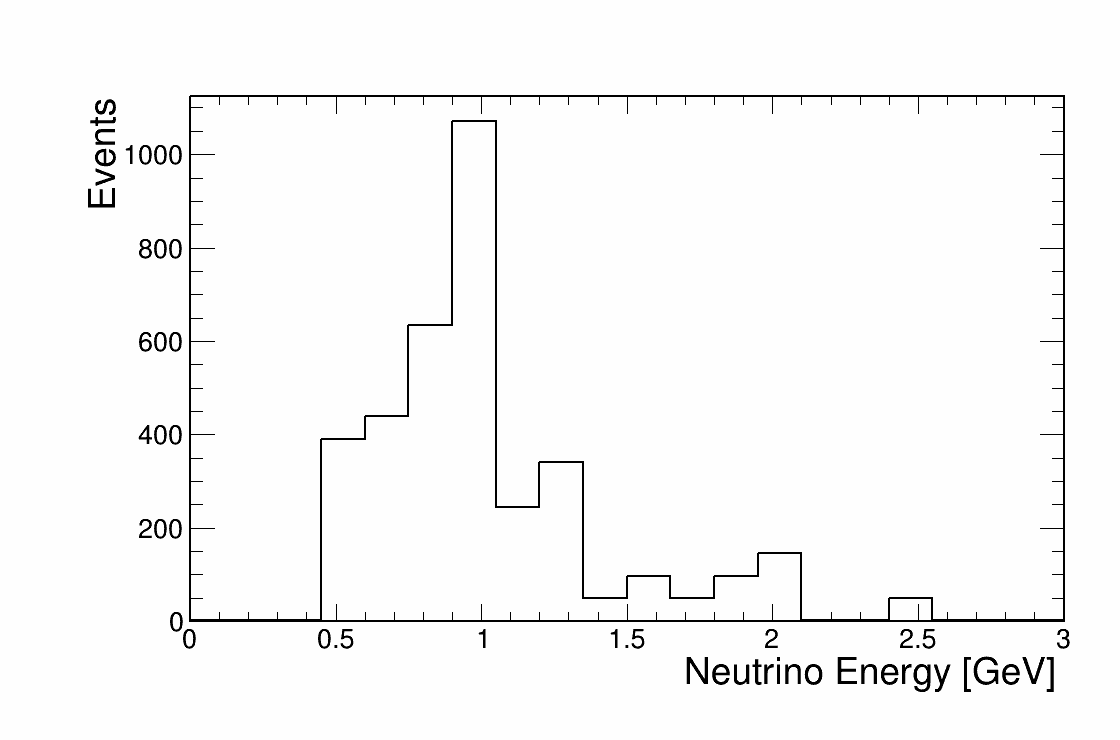
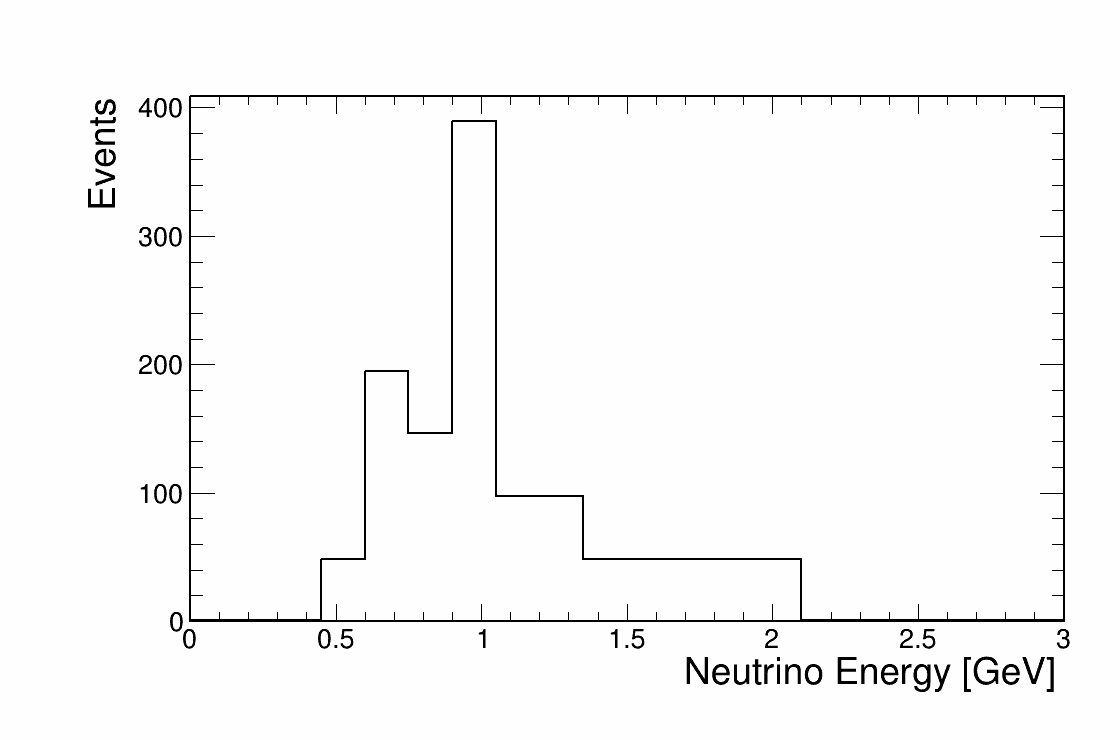
Ignore NaN's, 0's; allow cosmic trackScore; fix max track len in muon

diff --git a/CAFAnaAnalysis/Scripts/Definitions.h b/CAFAnaAnalysis/Scripts/Definitions.h
@@ -27,7 +27,7 @@ namespace ana
 
     const std::map<int, std::tuple<float, float>> PDGToThreshold = {
         {13, {0.1f, 1.2f}}, // Muon
-        {2212, {0.3f, 1.f}}, // Proton
+        {2212, {0.3f, 1.0f}}, // Proton
         {211, {0.07f, std::numeric_limits<float>::max()}}, // Pi plus
         {-211, {0.07f, std::numeric_limits<float>::max()}}, // Pi minus
         {111, {0.0f, std::numeric_limits<float>::max()}} // Pi zero
@@ -94,28 +94,28 @@ namespace ana
         float lb = std::get<0>(PDGToThreshold.at(13)); 
         float ub = std::get<1>(PDGToThreshold.at(13));
 
-        float fMaxTrkLen = -1.;
-        for (auto const& pfp : slc -> reco.pfp) {
-            if (pfp.trk.len > fMaxTrkLen) fMaxTrkLen = pfp.trk.len;
-        }
+        std::vector<int> CandidateMuons;
+        std::vector<int> CandidateMuonsTrkLen;
+        bool bSkipPFP = false;
 
         for (auto const& pfp : slc -> reco.pfp) {
             float fMuAverage = 0.0f;
             float fPrAverage = 0.0f;
-            int iMuCount = 0;
-            int iPrCount = 0;
             for (int i = 0; i < 3; i++) {
-                if (!std::isnan(pfp.trk.chi2pid[i].chi2_muon)) {
-                    fMuAverage += pfp.trk.chi2pid[i].chi2_muon;
-                    iMuCount++;
+                // Skip events with Nan's or 0's in chi squared values
+                if (
+                    std::isnan(pfp.trk.chi2pid[i].chi2_muon) ||
+                    pfp.trk.chi2pid[i].chi2_muon == 0. ||
+                    std::isnan(pfp.trk.chi2pid[i].chi2_proton) ||
+                    pfp.trk.chi2pid[i].chi2_proton == 0.
+                ) {
+                    bSkipPFP = true;
+                    break;
                 }
-                if (!std::isnan(pfp.trk.chi2pid[i].chi2_proton)) {
-                    fPrAverage += pfp.trk.chi2pid[i].chi2_proton;
-                    iPrCount++;
-                }
+                fMuAverage += pfp.trk.chi2pid[i].chi2_muon / 3;
+                fPrAverage += pfp.trk.chi2pid[i].chi2_proton / 3;
             }
-            fMuAverage = (iMuCount != 0) ? fMuAverage / iMuCount : fMuAverage;
-            fPrAverage = (iPrCount != 0) ? fPrAverage / iPrCount : fPrAverage;
+            if (bSkipPFP) continue;
             
             // Check start point is in FV and assign momentum based on end point
             if (!bIsInFV(&pfp.trk.start)) continue;
@@ -125,12 +125,26 @@ namespace ana
                 fMuAverage < fMuCutMuScore && 
                 fPrAverage > fMuCutPrScore && 
                 pfp.trk.len > fMuCutLength &&
-                pfp.trk.len == fMaxTrkLen && 
                 fMomentum > lb && 
                 fMomentum < ub
-            ) return {true, pfp.id};
+            ) {
+                CandidateMuons.push_back(pfp.id);
+                CandidateMuonsTrkLen.push_back(pfp.trk.len);
+            }
         }
-        return {false, -1};
+
+        // Choose candidate muon with longest track
+        if (CandidateMuons.size() == 0) return {false, -1};
+
+        float fLongestTrack = CandidateMuonsTrkLen.at(0);
+        int iMuonIndex = CandidateMuons.at(0);
+        for (std::size_t i = 1; i < CandidateMuons.size(); i++) {
+            if (CandidateMuonsTrkLen.at(i) > fLongestTrack) {
+                fLongestTrack = CandidateMuonsTrkLen.at(i);
+                iMuonIndex = CandidateMuons.at(i);
+            }
+        }
+        return {true, iMuonIndex};
     }
 
     // Look for protons and get their PIDs
@@ -144,14 +158,20 @@ namespace ana
             if (pfp.id == MuonID) continue; // skip pfp tagged as muon
 
             float fPrAverage  = 0.0f;
-            int iPrCount = 0;
+            bool bSkipPFP = false;
+
             for (int i = 0; i < 3; i++) {
-                if (!std::isnan(pfp.trk.chi2pid[i].chi2_proton)) {
-                    fPrAverage += pfp.trk.chi2pid[i].chi2_proton;
-                    iPrCount++;
+                // Skip events with Nan's or 0's in chi squared values
+                if (
+                    std::isnan(pfp.trk.chi2pid[i].chi2_muon) ||
+                    pfp.trk.chi2pid[i].chi2_muon == 0.
+                ) {
+                    bSkipPFP = true;
+                    break;
                 }
+                fPrAverage += pfp.trk.chi2pid[i].chi2_proton / 3;
             }
-            fPrAverage = (iPrCount != 0) ? fPrAverage / iPrCount : fPrAverage;
+            if (bSkipPFP) continue;
 
             // Check full track is in FV
             if (!(bIsInFV(&pfp.trk.start) && bIsInFV(&pfp.trk.end))) continue;
@@ -184,7 +204,8 @@ namespace ana
     bool bNoShowers(const caf::SRSliceProxy* slc, std::vector<int> TaggedIDs) {
         for (auto const& pfp : slc -> reco.pfp) {
             if (std::find(TaggedIDs.begin(), TaggedIDs.end(), pfp.id) != TaggedIDs.end()) continue;
-            if (pfp.trackScore > 0.0 && pfp.trackScore < 0.5) return false;
+            if (pfp.trackScore == -5.f) continue; // clear cosmic
+            if (pfp.trackScore < 0.5) return false;
         }
         return true;
     }

diff --git a/CAFAnaAnalysis/Scripts/Selection.C b/CAFAnaAnalysis/Scripts/Selection.C
@@ -139,5 +139,16 @@ void Selection()
     Histo3->Draw("hist same");
     leg->Draw();
     PlotCanvas->SaveAs(dir+"/Figs/CAFAna/SignalDefinitionEnergy.png");
+
+    double TrueEvents = Histo1->Integral();
+    double RecoEvents = Histo2->Integral();
+    double BkgEvents  = Histo3->Integral();
+
+    std::cout << "True events: " << TrueEvents << std::endl;
+    std::cout << "Reconstructed events: " << RecoEvents << std::endl;
+    std::cout << "Background events: " << BkgEvents << std::endl;
+    std::cout << "Efficiency (reco / total): " << RecoEvents / TrueEvents << std::endl;
+    std::cout << "Purity (1 - bkg / reco): " << 1 - (BkgEvents / RecoEvents) << std::endl;
+
     delete PlotCanvas;
 }
